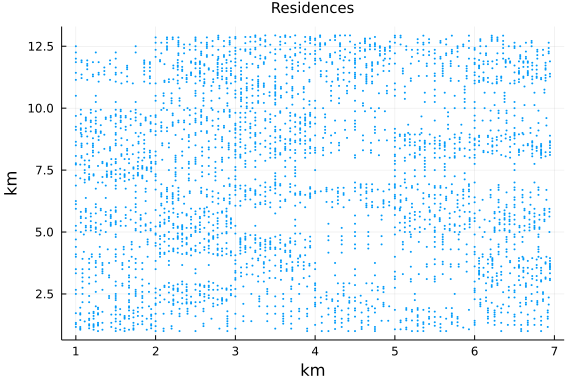
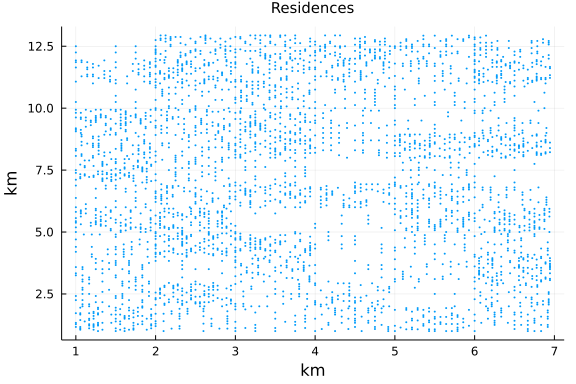
epidemic transition and cosmetics

diff --git a/docs/src/examples/random_scenario.md b/docs/src/examples/random_scenario.md
@@ -275,12 +275,12 @@ res_blocks_distrib = EpiSiming.gen_res_blocks(pop_blocks, res_size_distribution)
 
 ```
 6×12 Matrix{Vector{Int64}}:
- [9, 19, 30, 18, 5, 4, 1, 0]  …  [0, 3, 3, 1, 0, 1, 0, 0]
- [4, 8, 12, 6, 1, 1, 0, 1]       [6, 14, 21, 13, 3, 3, 2, 0]
- [3, 8, 7, 6, 1, 1, 0, 0]        [6, 18, 21, 15, 3, 4, 1, 0]
- [4, 12, 14, 9, 2, 3, 0, 0]      [10, 15, 27, 16, 3, 3, 1, 0]
- [6, 13, 18, 15, 2, 2, 1, 0]     [6, 10, 16, 12, 2, 3, 0, 0]
- [5, 10, 16, 10, 3, 2, 0, 0]  …  [5, 12, 17, 11, 2, 3, 0, 0]
+ [8, 19, 28, 21, 4, 4, 1, 0]  …  [0, 2, 2, 1, 1, 1, 0, 0]
+ [5, 7, 12, 7, 2, 1, 0, 0]       [7, 15, 21, 14, 3, 3, 1, 0]
+ [2, 6, 8, 5, 1, 2, 0, 0]        [6, 15, 24, 14, 3, 3, 2, 0]
+ [5, 11, 13, 10, 2, 3, 0, 0]     [7, 16, 26, 17, 3, 3, 1, 0]
+ [5, 16, 19, 13, 2, 2, 1, 0]     [5, 10, 18, 11, 3, 2, 0, 0]
+ [4, 10, 16, 10, 2, 3, 0, 0]  …  [6, 10, 16, 11, 3, 2, 1, 0]
 ```
 
 
@@ -330,7 +330,7 @@ residences = EpiSiming.gen_residences(rng, res_blocks_distrib)
 ```
 
 ```
-3274-element EpiSiming.Residences{Int64, Float64}:
+3291-element EpiSiming.Residences{Int64, Float64}:
  (1, (1.5555555555555556, 1.3888888888888888), 1, [1])
  (1, (1.5, 1.0), 1, [2])
  (1, (1.5, 1.5), 1, [3])
@@ -339,23 +339,23 @@ residences = EpiSiming.gen_residences(rng, res_blocks_distrib)
  (1, (1.3333333333333333, 1.7777777777777777), 1, [6])
  (1, (1.5555555555555556, 1.0555555555555556), 1, [7])
  (1, (1.5555555555555556, 1.2777777777777777), 1, [8])
- (1, (1.6111111111111112, 1.6111111111111112), 1, [9])
- (1, (1.7222222222222223, 1.7222222222222223), 2, [10, 11])
+ (1, (1.6111111111111112, 1.6111111111111112), 2, [9, 10])
+ (1, (1.7222222222222223, 1.7222222222222223), 2, [11, 12])
  ⋮
- (72, (6.642857142857143, 12.642857142857142), 4, [9957, 9958, 9959, 9960])
- (72, (6.714285714285714, 12.5), 4, [9961, 9962, 9963, 9964])
- (72, (6.214285714285714, 12.928571428571429), 4, [9965, 9966, 9967, 9968])
- (72, (6.642857142857143, 12.071428571428571), 4, [9969, 9970, 9971, 9972])
- (72, (6.928571428571429, 12.428571428571429), 5, [9973, 9974, 9975, 9976, 
-9977])
- (72, (6.142857142857143, 12.142857142857142), 5, [9978, 9979, 9980, 9981, 
-9982])
- (72, (6.714285714285714, 12.714285714285714), 6, [9983, 9984, 9985, 9986, 
-9987, 9988])
- (72, (6.928571428571429, 12.285714285714286), 6, [9989, 9990, 9991, 9992, 
-9993, 9994])
- (72, (6.357142857142857, 12.714285714285714), 6, [9995, 9996, 9997, 9998, 
-9999, 10000])
+ (72, (6.071428571428571, 12.642857142857142), 4, [9955, 9956, 9957, 9958])
+ (72, (6.928571428571429, 12.714285714285714), 4, [9959, 9960, 9961, 9962])
+ (72, (6.857142857142857, 12.785714285714286), 4, [9963, 9964, 9965, 9966])
+ (72, (6.142857142857143, 12.214285714285714), 5, [9967, 9968, 9969, 9970, 
+9971])
+ (72, (6.928571428571429, 12.571428571428571), 5, [9972, 9973, 9974, 9975, 
+9976])
+ (72, (6.214285714285714, 12.5), 5, [9977, 9978, 9979, 9980, 9981])
+ (72, (6.142857142857143, 12.357142857142858), 6, [9982, 9983, 9984, 9985, 
+9986, 9987])
+ (72, (6.571428571428571, 12.285714285714286), 6, [9988, 9989, 9990, 9991, 
+9992, 9993])
+ (72, (6.5, 12.285714285714286), 7, [9994, 9995, 9996, 9997, 9998, 9999, 10
+000])
 ```
 
 
@@ -422,46 +422,65 @@ population = EpiSiming.gen_population(
 ```
 
 ```
-10000-element EpiSiming.Population{Int64, EpiSiming.Phase}:
- (S, 1, 1, (1.5694444444444444, 1.3888888888888888), 48, 0.8429668909281123
-, 1.0871421914278978, Dict{Symbol, Int64}(), Dict{Symbol, Int64}())
- (S, 1, 2, (1.5138888888888888, 1.0), 34, 0.6346032739780121, 0.92885542105
-81556, Dict{Symbol, Int64}(), Dict{Symbol, Int64}())
- (S, 1, 3, (1.5138888888888888, 1.5), 70, 1.866136384893467, 0.637995824026
-4992, Dict{Symbol, Int64}(), Dict{Symbol, Int64}())
- (S, 1, 4, (1.7361111111111112, 1.2222222222222223), 39, 1.9630070493538805
-, 0.49089045628844613, Dict{Symbol, Int64}(), Dict{Symbol, Int64}())
- (S, 1, 5, (1.9583333333333333, 1.5), 21, 0.17974072857925905, 0.9196908284
-361106, Dict{Symbol, Int64}(), Dict{Symbol, Int64}())
- (S, 1, 6, (1.347222222222222, 1.7777777777777777), 3, 0.8018440204599591, 
-0.8572836161482715, Dict{Symbol, Int64}(), Dict{Symbol, Int64}())
- (S, 1, 7, (1.5694444444444444, 1.0555555555555556), 23, 0.7121991800323644
-, 1.4273823226339426, Dict{Symbol, Int64}(), Dict{Symbol, Int64}())
- (S, 1, 8, (1.5694444444444444, 1.2777777777777777), 38, 0.7803803598677808
-, 0.7458566679008322, Dict{Symbol, Int64}(), Dict{Symbol, Int64}())
- (S, 1, 9, (1.625, 1.6111111111111112), 56, 0.7533507391116316, 1.059750152
-7579962, Dict{Symbol, Int64}(), Dict{Symbol, Int64}())
- (S, 1, 10, (1.7361111111111112, 1.7222222222222223), 73, 1.058378472594778
-5, 0.6163376056877701, Dict{Symbol, Int64}(), Dict{Symbol, Int64}())
+10000-element EpiSiming.Population{EpiSiming.Phase, Int64}:
+ (S, 1, (E, 9223372036854775807), 1, (1.5694444444444444, 1.388888888888888
+8), 44, 0.8429668909281123, 1.0871421914278978, Dict{Symbol, Int64}(), Dict
+{Symbol, Int64}())
+ (S, 1, (E, 9223372036854775807), 2, (1.5138888888888888, 1.0), 34, 0.63460
+32739780121, 0.9288554210581556, Dict{Symbol, Int64}(), Dict{Symbol, Int64}
+())
+ (S, 1, (E, 9223372036854775807), 3, (1.5138888888888888, 1.5), 9, 1.866136
+384893467, 0.6379958240264992, Dict{Symbol, Int64}(), Dict{Symbol, Int64}()
+)
+ (S, 1, (E, 9223372036854775807), 4, (1.7361111111111112, 1.222222222222222
+3), 43, 1.9630070493538805, 0.49089045628844613, Dict{Symbol, Int64}(), Dic
+t{Symbol, Int64}())
+ (S, 1, (E, 9223372036854775807), 5, (1.9583333333333333, 1.5), 23, 0.17974
+072857925905, 0.9196908284361106, Dict{Symbol, Int64}(), Dict{Symbol, Int64
+}())
+ (S, 1, (E, 9223372036854775807), 6, (1.347222222222222, 1.7777777777777777
+), 40, 0.8018440204599591, 0.8572836161482715, Dict{Symbol, Int64}(), Dict{
+Symbol, Int64}())
+ (S, 1, (E, 9223372036854775807), 7, (1.5694444444444444, 1.055555555555555
+6), 42, 0.7121991800323644, 1.4273823226339426, Dict{Symbol, Int64}(), Dict
+{Symbol, Int64}())
+ (S, 1, (E, 9223372036854775807), 8, (1.5694444444444444, 1.277777777777777
+7), 6, 0.7803803598677808, 0.7458566679008322, Dict{Symbol, Int64}(), Dict{
+Symbol, Int64}())
+ (S, 1, (E, 9223372036854775807), 9, (1.625, 1.6111111111111112), 12, 0.753
+3507391116316, 1.0597501527579962, Dict{Symbol, Int64}(), Dict{Symbol, Int6
+4}())
+ (S, 1, (E, 9223372036854775807), 9, (1.5972222222222223, 1.611111111111111
+2), 56, 1.0583784725947785, 0.6163376056877701, Dict{Symbol, Int64}(), Dict
+{Symbol, Int64}())
  ⋮
- (S, 1, 3273, (6.910714285714286, 12.285714285714286), 26, 0.74255598711622
-12, 1.878529197903739, Dict{Symbol, Int64}(), Dict{Symbol, Int64}())
- (S, 1, 3273, (6.919642857142858, 12.270249546360994), 5, 1.346741871517456
-4, 0.6158224898743601, Dict{Symbol, Int64}(), Dict{Symbol, Int64}())
- (S, 1, 3273, (6.9375, 12.270249546360994), 56, 0.5713254684769675, 1.26043
-38561736381, Dict{Symbol, Int64}(), Dict{Symbol, Int64}())
- (S, 1, 3274, (6.375, 12.714285714285714), 31, 0.71166954083545, 0.65739892
-49359745, Dict{Symbol, Int64}(), Dict{Symbol, Int64}())
- (S, 1, 3274, (6.366071428571428, 12.729750453639006), 32, 0.92991235018423
-87, 0.5603267260793015, Dict{Symbol, Int64}(), Dict{Symbol, Int64}())
- (S, 1, 3274, (6.348214285714286, 12.729750453639006), 51, 0.34954787053977
-54, 0.7703472343146436, Dict{Symbol, Int64}(), Dict{Symbol, Int64}())
- (S, 1, 3274, (6.3392857142857135, 12.714285714285714), 50, 0.6946812843355
-863, 2.073824042353887, Dict{Symbol, Int64}(), Dict{Symbol, Int64}())
- (S, 1, 3274, (6.348214285714286, 12.69882097493242), 20, 1.129377778543976
-5, 1.4010740192330449, Dict{Symbol, Int64}(), Dict{Symbol, Int64}())
- (S, 1, 3274, (6.366071428571428, 12.69882097493242), 25, 0.895945420465046
-4, 1.9864694366090996, Dict{Symbol, Int64}(), Dict{Symbol, Int64}())
+ (S, 1, (E, 9223372036854775807), 3290, (6.5625, 12.270249546360994), 39, 0
+.7425559871162212, 1.878529197903739, Dict{Symbol, Int64}(), Dict{Symbol, I
+nt64}())
+ (S, 1, (E, 9223372036854775807), 3290, (6.580357142857142, 12.270249546360
+994), 34, 1.3467418715174564, 0.6158224898743601, Dict{Symbol, Int64}(), Di
+ct{Symbol, Int64}())
+ (S, 1, (E, 9223372036854775807), 3291, (6.517857142857143, 12.285714285714
+286), 62, 0.5713254684769675, 1.2604338561736381, Dict{Symbol, Int64}(), Di
+ct{Symbol, Int64}())
+ (S, 1, (E, 9223372036854775807), 3291, (6.511133746461763, 12.299675562186
+93), 12, 0.71166954083545, 0.6573989249359745, Dict{Symbol, Int64}(), Dict{
+Symbol, Int64}())
+ (S, 1, (E, 9223372036854775807), 3291, (6.496026411893637, 12.303123712717
+534), 59, 0.9299123501842387, 0.5603267260793015, Dict{Symbol, Int64}(), Di
+ct{Symbol, Int64}())
+ (S, 1, (E, 9223372036854775807), 3291, (6.483911270216028, 12.293462209627
+1), 37, 0.3495478705397754, 0.7703472343146436, Dict{Symbol, Int64}(), Dict
+{Symbol, Int64}())
+ (S, 1, (E, 9223372036854775807), 3291, (6.483911270216028, 12.277966361801
+473), 22, 0.6946812843355863, 2.073824042353887, Dict{Symbol, Int64}(), Dic
+t{Symbol, Int64}())
+ (S, 1, (E, 9223372036854775807), 3291, (6.496026411893637, 12.268304858711
+039), 37, 1.1293777785439765, 1.4010740192330449, Dict{Symbol, Int64}(), Di
+ct{Symbol, Int64}())
+ (S, 1, (E, 9223372036854775807), 3291, (6.511133746461763, 12.271753009241
+642), 17, 0.8959454204650464, 1.9864694366090996, Dict{Symbol, Int64}(), Di
+ct{Symbol, Int64}())
 ```
 
 
@@ -721,8 +740,8 @@ exposed_at_time_0 = sample(rng, 1:num_population, num_exposed_at_time_0, replace
 # population.phase[exposed_at_time_0] .= EXPOSED
 for n in exposed_at_time_0
     population.phase[n] = EXPOSED
-    next_change, next_phase = EpiSiming.transition_rules(rng, EXPOSED)
-    population.evolve_to[n] = (next_phase, 1 + next_change)
+    next_change, next_phase = EpiSiming.transition_rules(rng, EXPOSED, 1)
+    population.transition[n] = (next_phase, next_change)
 end
 ```
 
@@ -762,30 +781,29 @@ time_step = 1
 ```
 
 ```
-2.287473 seconds (369.33 k allocations: 61.784 MiB, 1.90% gc time, 13.87%
- compilation time)
-  0.240142 seconds (2 allocations: 19.766 KiB)
+1.808879 seconds (65.86 k allocations: 44.565 MiB)
+  0.239124 seconds (2 allocations: 19.766 KiB)
 360×7 Matrix{Int64}:
  9980  20   0  0     0    0  0
- 9980  20   0  0     0    0  0
- 9980  17   3  0     0    0  0
- 9980  12   7  1     0    0  0
- 9977  11   7  5     0    0  0
- 9976   9   9  6     0    0  0
- 9964  17  11  8     0    0  0
- 9956  24  11  9     0    0  0
- 9953  25  14  8     0    0  0
- 9950  23  17  9     1    0  0
+ 9980  19   1  0     0    0  0
+ 9979  18   3  0     0    0  0
+ 9978  18   4  0     0    0  0
+ 9978  12   8  2     0    0  0
+ 9976  11   9  4     0    0  0
+ 9972  11  12  5     0    0  0
+ 9965  15  11  9     0    0  0
+ 9960  19  14  7     0    0  0
+ 9954  23  14  9     0    0  0
     ⋮                     ⋮  
- 1957   0   0  0  7894  149  0
- 1957   0   0  0  7894  149  0
- 1957   0   0  0  7894  149  0
- 1957   0   0  0  7894  149  0
- 1957   0   0  0  7894  149  0
- 1957   0   0  0  7894  149  0
- 1957   0   0  0  7894  149  0
- 1957   0   0  0  7894  149  0
- 1957   0   0  0  7894  149  0
+ 2084   0   0  0  7774  142  0
+ 2084   0   0  0  7774  142  0
+ 2084   0   0  0  7774  142  0
+ 2084   0   0  0  7774  142  0
+ 2084   0   0  0  7774  142  0
+ 2084   0   0  0  7774  142  0
+ 2084   0   0  0  7774  142  0
+ 2084   0   0  0  7774  142  0
+ 2084   0   0  0  7774  142  0
 ```
 
 
